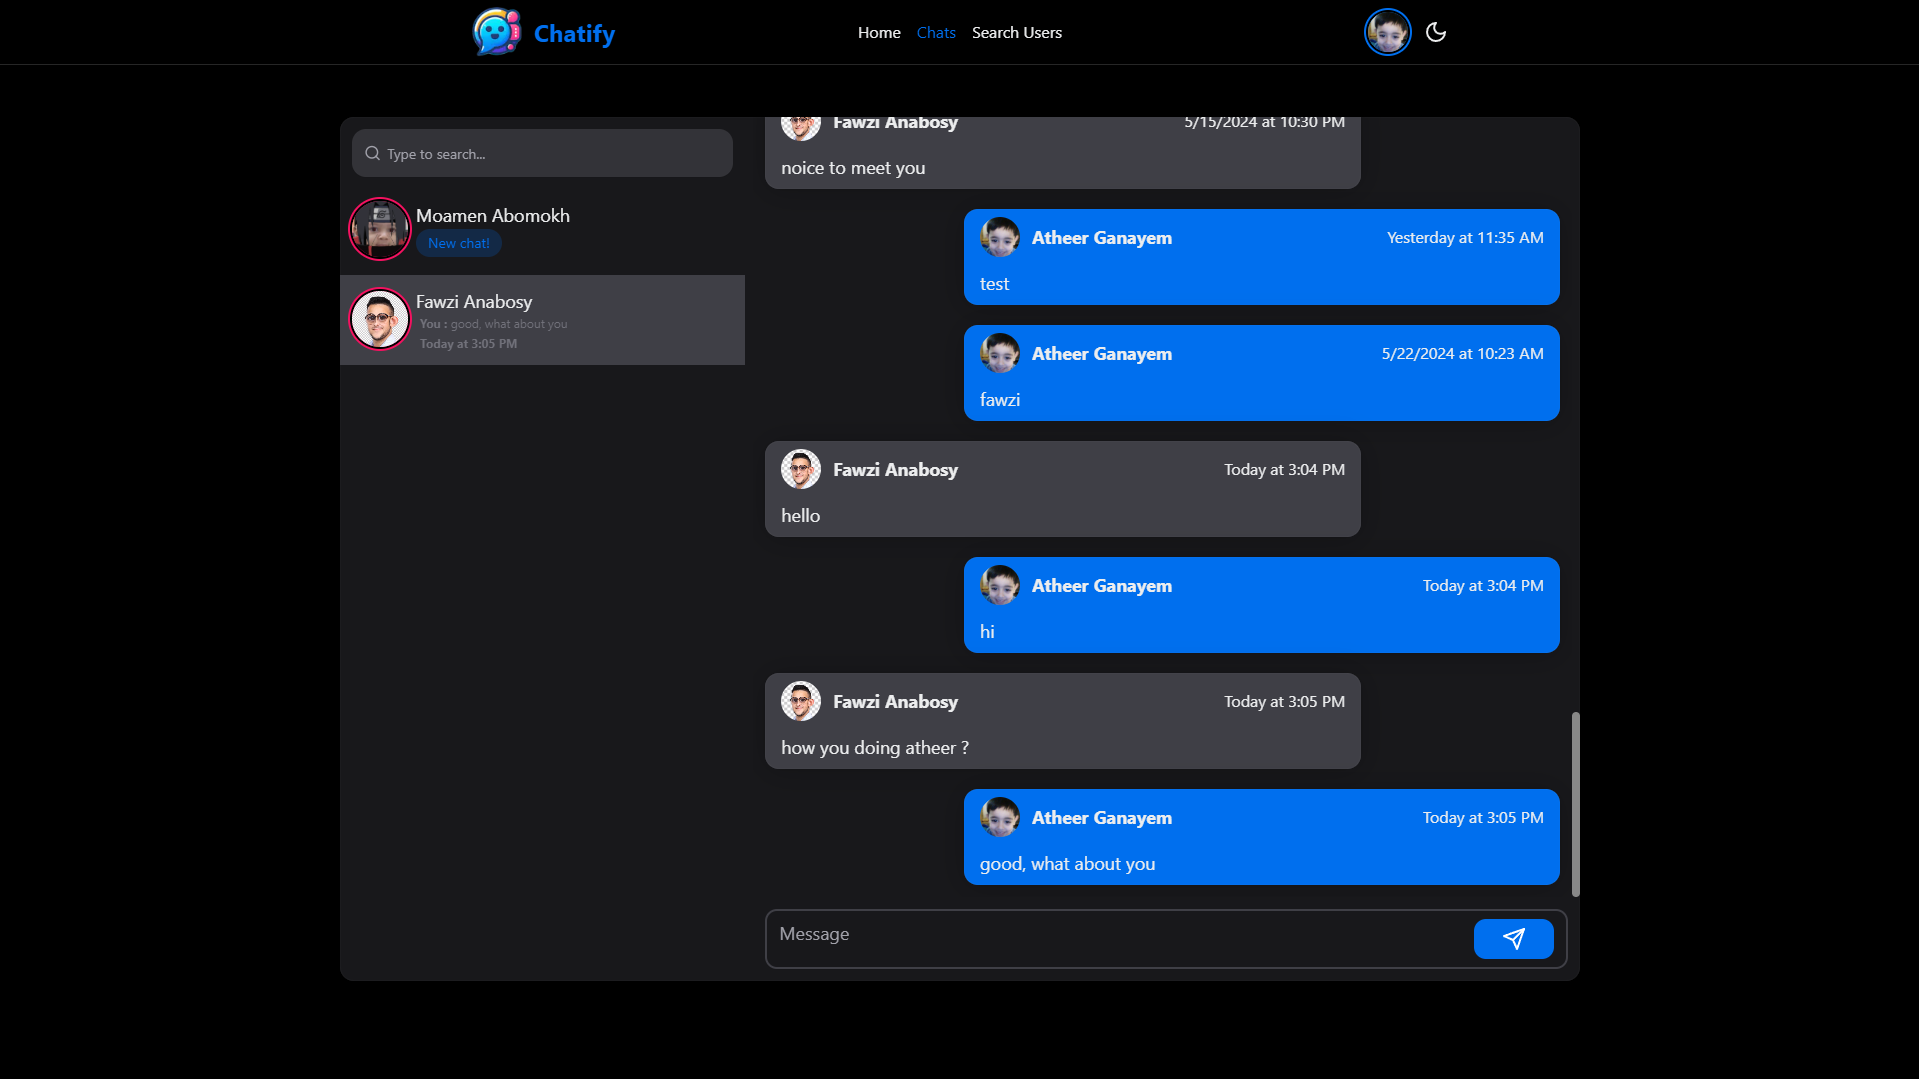
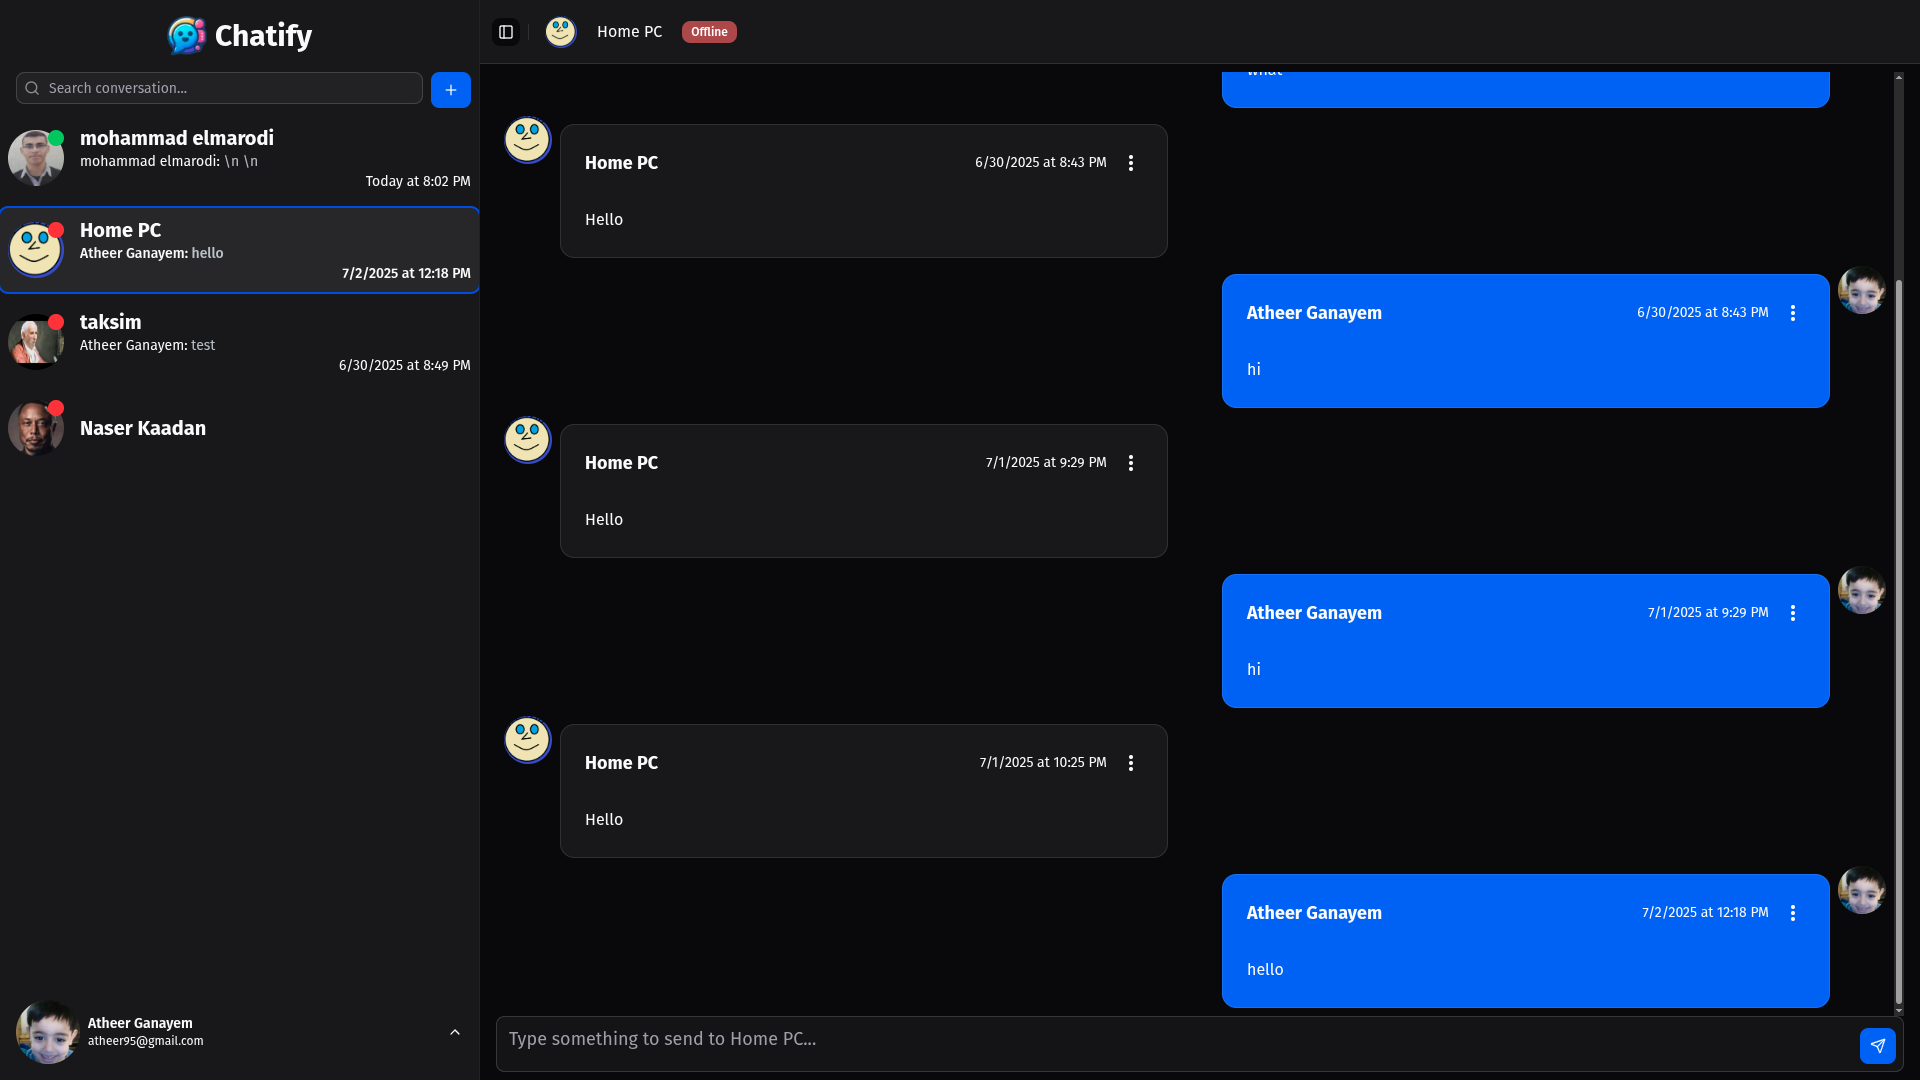
update chatify

diff --git a/data/projects.ts b/data/projects.ts
@@ -1,4 +1,5 @@
 import {
+  GoOriginal,
   ReactOriginal,
   NextjsOriginal,
   TailwindcssOriginal,
@@ -32,12 +33,12 @@ export const projects: Project[] = [
     title: "Chatify",
     description:
       "Chatify is a sleek and modern real-time messaging app designed for seamless direct messaging (DM) experiences. With a focus on speed and simplicity, Chatify allows users to connect and communicate instantly, providing a smooth and intuitive interface for one-on-one conversations. Whether you're catching up with friends, coordinating plans, or just staying in touch, Chatify ensures your messages are delivered and received in real-time. Experience the future of direct messaging with Chatify—fast, reliable, and user-friendly.",
-    link: "https://chatify-2.vercel.app/login",
+    link: "https://chatify-3-0.vercel.app",
     tech: [
+      { title: "Go", icon: GoOriginal },
       { title: "Next.js", icon: NextjsOriginal },
       { title: "React", icon: ReactOriginal },
       { title: "Tailwind", icon: TailwindcssOriginal },
-      { title: "Node.js", icon: NodejsOriginalWordmark },
       { title: "MongoDB", icon: MongodbOriginal },
       { title: "Typescript", icon: TypescriptOriginal },
       { title: "Express.js", icon: ExpressOriginal },
@@ -45,16 +46,7 @@ export const projects: Project[] = [
     ],
     imagesPath: "/projects/chatify/",
     images: ["1.png"],
-    githubRepo: [
-      {
-        name: "Front-end",
-        url: "https://github.com/Atheer-Ganayem/Chatify-2.0-client",
-      },
-      {
-        name: "Back-end (real-time side)",
-        url: "https://github.com/Atheer-Ganayem/Chatify-2.0-server",
-      },
-    ],
+    githubRepo: "https://github.com/Atheer-Ganayem/Chatify-3.0",
     accounts: [
       { email: "user1@example.com", password: "123456" },
       { email: "user2@example.com", password: "123456" },

diff --git a/components/skills/BackendSkills.tsx b/components/skills/BackendSkills.tsx
@@ -10,12 +10,12 @@ import {
 import SkillsCard from "./SkillsCard";
 
 const skills = [
+  { text: "Go", icon: GoOriginal },
   { text: "Node.js", icon: NodejsOriginalWordmark },
   { text: "Express.js", icon: ExpressOriginal },
   { text: "TypeScript", icon: TypescriptOriginal },
   { text: "MongoDB", icon: MongodbOriginal },
   { text: "Sqlite", icon: SqliteOriginal },
-  { text: "Go (Learning...)", icon: GoOriginal },
 ];
 
 const BackendSkills = () => {
